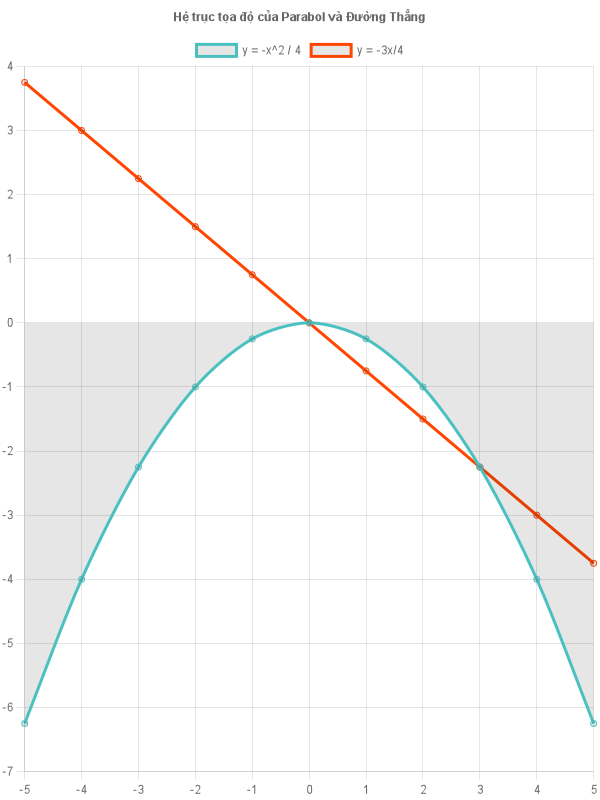
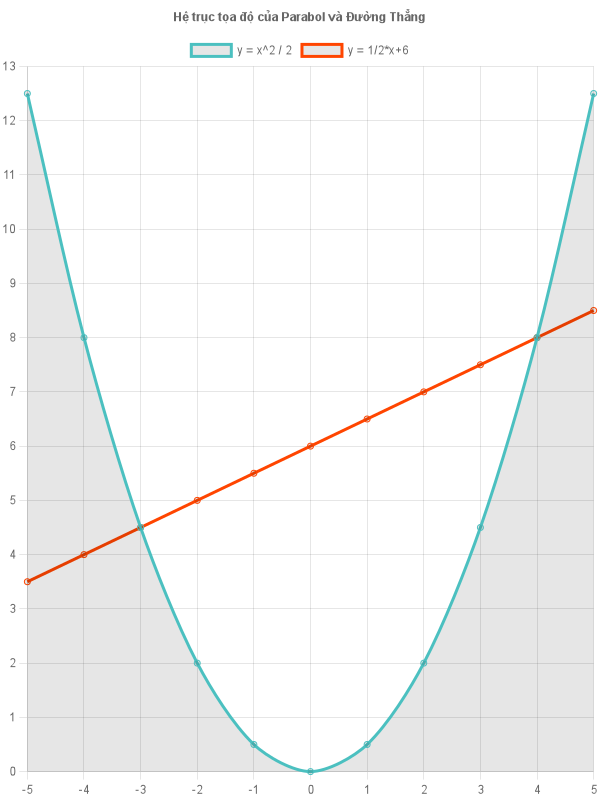
thay doi 1 so thu

diff --git a/index.js b/index.js
@@ -51,7 +51,7 @@ const configOfChart = {
         plugins: {
             title: {
                 display: true,
-                text: "Hệ trục tọa độ của Parabol và Đường Thẳng"
+                text: "Hệ trục tọa độ"
             }
         },
         scales: {

diff --git a/config.js b/config.js
@@ -1,6 +1,6 @@
 const conf = {
-    parabol: "y = -x^2 / 4",
-    line: "y = -3x/4",
+    parabol: "y = x^2 / 2",
+    line: "y = 1/2*x+6",
     start: -5,
     end: 5,
     step: 1
